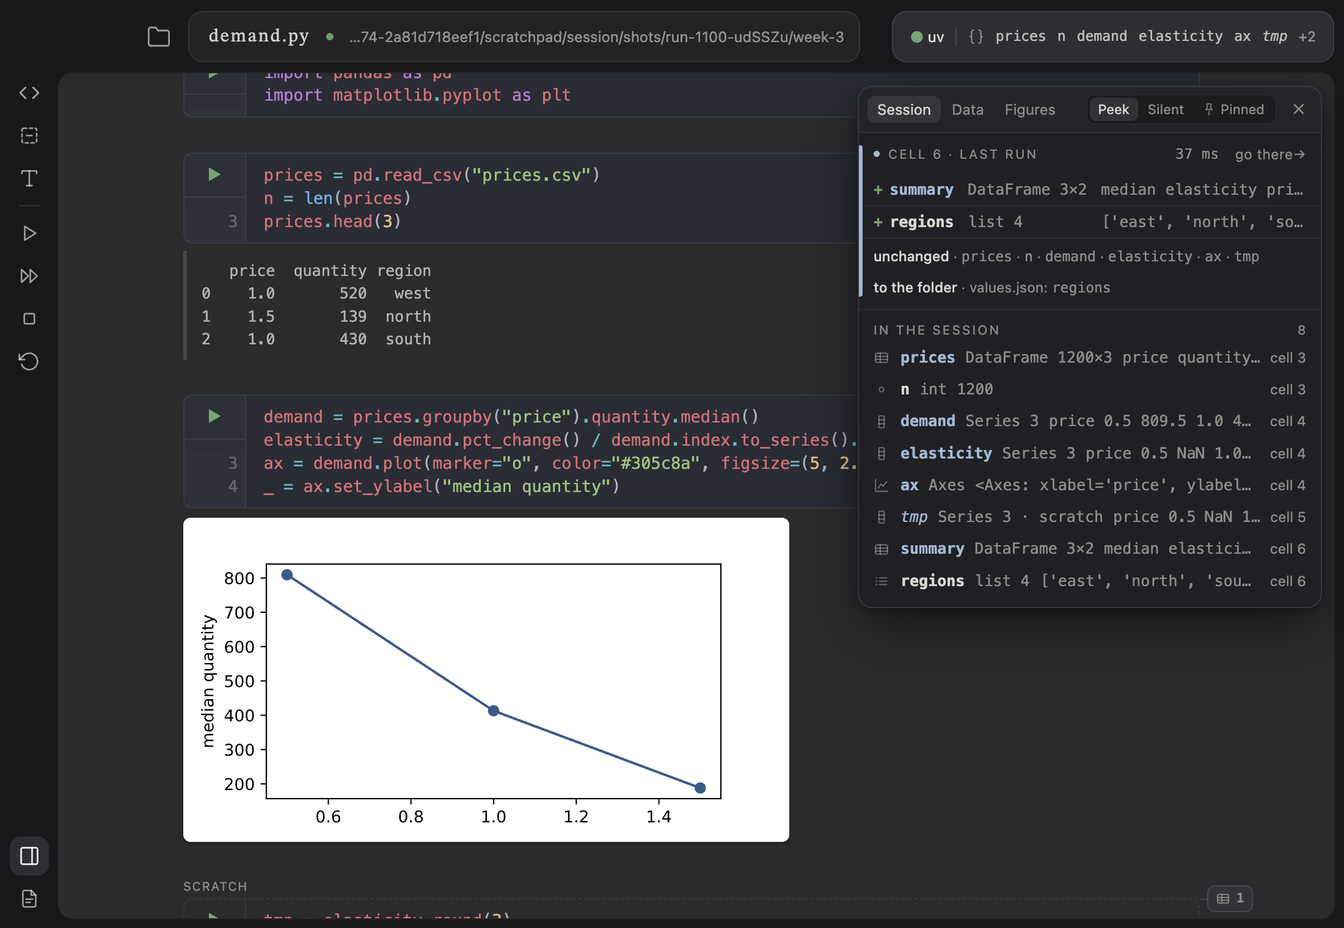
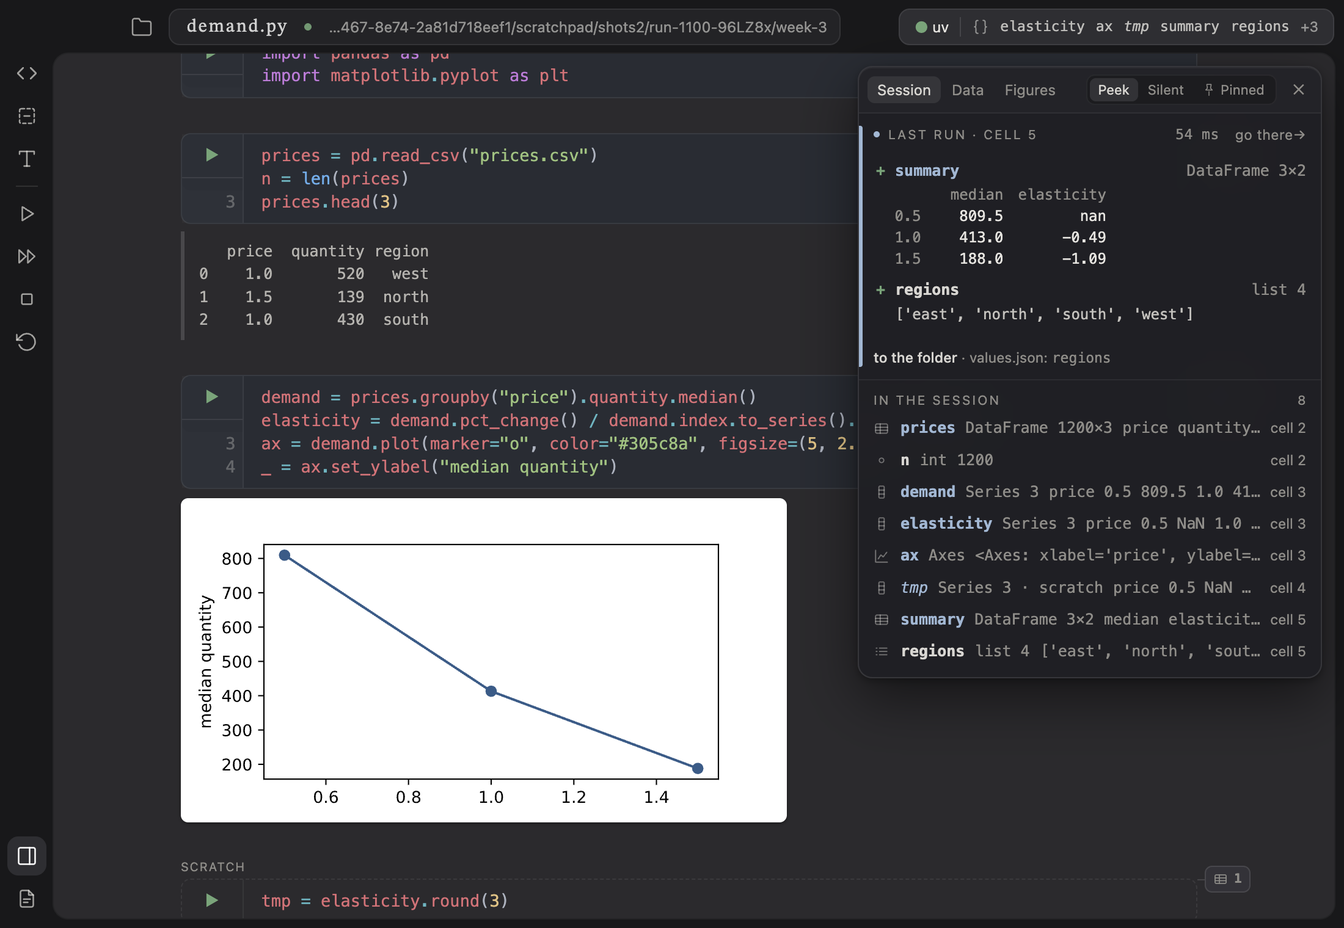
The session's record, second pass: what the reviewers found, the slide rule and the receipt beside the column, the merge, the checks, the eight screenshots again, what is open
SESSION.md says what the first pass got wrong at Taylor's window sizes
(Pinned a strip of names at 1470 and over the column under 1435, the
receipt likewise, the pill hiding the names a receipt brought home) and
what was decided and built: the column sliding for the docked card by
peek-v2's rule and narrowing to a 640 px floor, the room scrolling
sideways under that; the band with values, mini tables and the figure;
a chip's receipt in the band while docked; the receipt following the
margin and sliding the column for its stay; click to keep and the hint
that follows the focus; the pill's order and its single layout; the
resting pill in source and grid views; cell numbers for code cells. The
body, the defaults and the open list are brought up to date (the
thresholds as measured: 1275, 1085, 1075 px), the eight screenshots are
taken again on the checkout shell after the merge with main's 44 px bar,
and ROADMAP's entry no longer says the column never moves.

diff --git a/docs/SESSION.md b/docs/SESSION.md
@@ -32,8 +32,10 @@ open on the side."
 ## What was built
 
 One data structure, the **receipt** (`src/receipts.ts`), under three
-surfaces (`src/session.ts`). The cell column is untouched: every surface
-lies over the room and none of them moves or narrows the column.
+surfaces (`src/session.ts`). Every surface stands beside the cell column
+and never over it: the receipt card in the room's margin, the docked
+Session card past the chips' lane; the column slides left for either
+(*Second pass*, below, has the rule).
 
 **The receipt.** Every run of a cell produces one: the cell, the time
 the run took, the names it bound (`+` new, `~` rebound or changed in
@@ -47,23 +49,30 @@ the snapshot after the run, which adds what the AST could not see — a
 name bound inside an `if`, a frame changed in place (`prices['q'] = …`).
 
 **The receipt card** (Peek mode). After a run, the card appears beside
-the cell: right of the column, past the chips' lane, its top on the
-cell's first line, in the frame's dark glass. It stays while you look —
+the cell: right of the column, over the chips' lane (its own chip is
+hidden while it is up), its top on the cell's first line, in the frame's
+dark glass. Its width follows the room's margin, up to 300 px; a margin
+under 200 px slides the column left by the difference for the card's
+stay. It stays while you look —
 the pointer on it holds it — and goes home into the session pill when
 you keep typing, press Esc, click elsewhere, start another run, or
 after six seconds. Going home is the flight: the card lifts and swings
 along a curve into the pill, shrinking; the pill's names update as it
 lands, the new ones blue and lit for a moment, and the chip takes its
-place at the cell. `p`, when the keystroke would not type into a cell
+place at the cell, and the column, if it slid, slides back. A click
+anywhere on the card, `p` when the keystroke would not type into a cell
 (after clicking ▶), or the card's pin keeps it in place until it is
-closed (✕ or Esc). A Run all or Run stale never puts up a card.
+closed (✕ or Esc); its hint says which works now ("type or esc ↗ · click
+to keep" in a cell, "· p keeps it" elsewhere). A Run all or Run stale
+never puts up a card.
 
 **The chip.** Once a receipt has flown, a small chip stays at the cell's
 right corner, in the lane beside the column (ledger-v2's folded tab,
 tied to the column by a hairline): a glyph for what the run made — the
 white print for a figure, a table, braces for names — and how many names
-it bound. Hover opens the receipt card again, read-only, as it was; a
-click keeps it; a click elsewhere or Esc puts it away. The chip changes
+it bound. Hover opens the receipt card again, read-only, as it was,
+past the chip; a click keeps it; a click elsewhere or Esc puts it away.
+Docked, the chip's receipt shows in the Session card's band instead. The chip changes
 when its cell runs again, turns amber with the cell's staleness, and
 fades after a restart until its cell runs. A cell whose last run bound
 and drew nothing has no chip. When the lane is too narrow for it (a
@@ -73,15 +82,19 @@ window under about 990 px) it tucks inside the cell's top-right corner.
 (`#kernel-status`, its words unchanged, which the shell's smoke reads),
 a hairline, the session's mark, and its names in cell order — new names
 blue — or "empty session" / "fresh session" in words. When the names do
-not fit, the oldest give way to "+N" before the new ones. A click drops
-the Session card; while the kernel is not ready, it opens the onboarding
-as the status did.
+not fit, the least recently bound give way to "+N", and never the names
+a receipt is bringing home or the last run bound. A click drops the
+Session card; while the kernel is not ready, it opens the onboarding as
+the status did. In source and grid views it rests, its title saying
+why (there are no cells for the card to stand beside).
 
 **The Session card.** From the pill, a rounded dark-glass card at the
-room's top right, with three tabs: **Session** (the last run's receipt
-on top behind a blue rule, then every name with its kind glyph, type,
-preview and the cell that bound it; a table's or figure's name opens it,
-"cell 4" goes to the cell), **Data** (a chip per table, and the table
+room's top right, with three tabs: **Session** (the band: the last
+run's receipt on top behind a blue rule, "Last run · cell 3", each name
+with its kind and its value under it — a table of six rows or fewer
+whole, the figure at the card's width; then every name with its kind
+glyph, type, preview and the cell that bound it; a table's or figure's
+name opens it, "cell 4" goes to the cell), **Data** (a chip per table, and the table
 viewer, paging 100 rows at a time as the panel did), **Figures** (a chip
 per figure, and the figure viewer; it follows each new figure unless
 held, and a held one shows "New: …" for the one waiting). A click
@@ -95,9 +108,12 @@ Session tile (`#toggle-panel`, lit while the card shows).
   change quietly.
 - **Pinned**: the card docks beside the column, on the page, in its own
   look (not the code cells'), as a sidebar card that scrolls inside
-  itself. A run's receipt goes straight into its top, lit for a moment;
-  no card beside the cell; the chip still appears. Choosing Peek or
-  Silent unpins it back to floating; closing it unpins it.
+  itself; the column slides left by only what the card lacks (narrowing
+  under about 1275 px). A run's receipt goes straight into its band,
+  lit for a moment; no card beside the cell; the chip still appears, and
+  its hover or click shows its cell's receipt in the band ("Earlier run ·
+  cell 2"). Choosing Peek or Silent unpins it back to floating; closing
+  it unpins it.
 
 Peek or Silent is remembered (localStorage `knuth-receipts`); Pinned is
 remembered per window (sessionStorage `knuth-session-pinned`, with the
@@ -129,99 +145,171 @@ the receipt away.
 | | default | why |
 |---|---|---|
 | the receipt card's dwell | **6 s**; the pointer on it holds it, 2 s after it leaves | Taylor's "about six seconds"; long enough to read four lines, short enough not to be furniture |
-| the flight | **460 ms**, a quadratic curve that lifts first and swings across into the pill, shrinking to the names' box; the names land at 72 % | peek-v2's 380 ms read as a blink on a real window; the curve is the "sends it up" Taylor liked |
+| the flight | **460 ms**, a quadratic curve that lifts first and swings across into the pill, shrinking to the names' box, above the bar; opaque until it is seven eighths of the way, the names lighting then (at 60 % of the time) while it still shows, gone only as it settles into them | peek-v2's 380 ms read as a blink on a real window; the curve is the "sends it up" Taylor liked; the first pass faded it before it reached the pill |
 | what puts the card away | typing (a printable key, Enter, Backspace, Delete, Tab), Esc, a click elsewhere, another run, the dwell | peek-v2's "carrying on is the acknowledgement" |
-| `p` | keeps the card only when the keystroke would not type (focus off the text) | a plain `p` in a cell must stay a `p`; Esc then P was weighed and left out, since Esc also closes the completion popup and the next `p` would be swallowed |
+| keeping a run's card | a click anywhere on it (but its pin, ✕, a table or the figure, which act on their own); `p` only when the keystroke would not type (focus off the text); the hint names what works now | after ⌘↩ the cursor stays in the cell, where a `p` must stay a `p`; Esc then P was weighed and left out, since Esc also closes the completion popup and the next `p` would be swallowed |
 | when a run gets a card | a single, clean run that bound or drew something; a run whose news only the snapshot saw gets its card when the snapshot lands, unless you carried on meanwhile | a card saying "nothing" is motion for nothing |
 | the chip's glyphs | white print = drew a figure; table = bound a DataFrame, Series or 2-D array; braces = names; the count = names bound (or figures drawn, for a figure alone) | ledger-v2's tab, with braces for plain names |
 | what the receipt lists from the folder | the bound values values.json mirrors (`saved` from the kernel) and the run's `figs/<name>.svg` receipts; "no folder yet" when the document has no folder | both are what the page already writes; a scratch run lists none |
 | new names in the pill | blue until the next single run, or until the Session tab is opened; a batch's add up | round two's rule: opening the Session acknowledges, hovering does not |
-| the card beside the cell | 220–300 px wide past a 46 px chips' lane; previews drop under 270 px | the lane at 1500 px is 310 px |
-| the docked card | 220–380 px wide past the chips' lane, the room's height less 24 px | the column keeps its width at every size |
+| the card beside the cell | a run's 6 px from the column (over the chips' lane), a chip's past its chip; as wide as the margin up to 300 px, 8 px in from the room's edge; slim under 270 px (a short value — a number, a string of 16 characters or fewer — in place of its kind, the kind in the tooltip); a margin under 200 slides the column left by the difference, and the card then takes down to 160 | about 280 px with previews at 1470–1500; 186 px slim at 1100 with the column all the way left |
+| the docked card | clamp(320, what is beside the column, 380) wide past the chips' lane, 10 px in from the room's right edge, the room's height less 24 px; inside the room | peek-v2's board |
+| the column, docked | margin-left max(0, min(centred, room − column − need)), need = the card, the lane and its gap less the room's own 24 px margin; narrows under about 1275 px to a 640 px floor; under about 1085 px the room's floor rises and it scrolls sideways | peek-v2's rule, and Taylor's "right beside the cells … just on the page" |
+| the slide | 0.36 s, cubic-bezier(.2,.7,.2,1), on the pin and for a receipt's stay (the card riding beside the column on the same curve); never on a resize, never on a run | peek-v2's timing |
+| cell numbers | the code cells only, 1-based (cell zero, the preamble, is 0); text cells uncounted | no number is drawn on the page, so a student counts the cells that run |
 | the floating card | 380 px, 10 px in from the room's top right | the tabs, the three modes and ✕ on one line |
-| a narrow room | under about a 1435 px window the lane cannot hold a card: the receipt card (290 px) lies over the room's right edge, 12 px in, and the docked card likewise (320 px) | see *What is open*, 1 |
+| a narrow room | under about a 1075 px window the receipt card, 160 px, lies at the room's right edge over the column's (after sliding it all the way left); the docked card never does: the room scrolls sideways | see *What is open*, 1 |
 | a restart | the chips fade, the pill says "fresh session", the Session card empties | round two's default |
 | a deleted cell | its names stay, marked "deleted cell" | round one's default |
 | names bound before the page loaded (a resumed session) | in the pill and the Session tab, with no cell | round two's default |
 | the old `knuth-panel` key | ignored; the card starts closed | the panel was open by default, the card is not |
+
+## Second pass: the reviewers' findings
+
+Two reviewers drove the first pass on the checkout shell (uv and
+Pyodide, 900 to 1500 px). The flight, the chips and the floating card
+worked as Taylor asked; Pinned did not. At Taylor's 1440–1470 the docked
+card was a 230 px strip of names with no values, and under about 1435 px
+it lay over the column's right edge and every chip — at the app's
+default 1100 window too — "floating there all the time". The receipt
+card did the same under 1435, and at full width it said `n int` where
+the value was the point. The decisions taken on the findings, and what
+was built:
+
+1. **Pinned slides the column** (peek-v2's board rule). Docking gives
+   #sheet a margin-left of max(0, min(centred, room − column − need)),
+   need being the card's width, the chips' lane and its gap less the
+   room's own margin; the column slides left, its width unchanged, by
+   only what the card lacks, over 0.36 s, on the pin, and a run never
+   changes it. The card is clamp(320, free, 380) wide. Under about
+   1275 px the column narrows while docked, to a 640 px floor (656 at
+   1100); under what the floor allows (about 1085 px) the room's floor
+   rises and the room scrolls sideways, the card past the column's edge,
+   never over its text. The docked card is inside the room, so it goes
+   sideways with the column. This replaces "the column untouched" for
+   the docked card only; unpinned, nothing moves. Taylor's words:
+   "putting it right beside the cells like you have it in one of the
+   other demos i saw, just on the page".
+2. **The band keeps the values.** Each name on its line with its kind
+   at the right and its value under it: the preview on one line, a table
+   of six rows and columns or fewer whole as a mini table (asked of the
+   kernel once per receipt, and only while the name still holds that
+   run's value), the figure at the card's width.
+3. **A chip while docked** lights its cell's receipt in the band,
+   "Earlier run · cell 2" behind a grey rule, scrolled into view — no
+   card over the docked one. A hover from the Data or Figures tab goes
+   back there when it ends; a click keeps the band until Esc, a click
+   elsewhere or the next run.
+4. **The receipt card never covers the column.** A run's card stands
+   6 px from it, over the chips' lane; a chip's past its chip. Its width
+   follows the margin up to 300; under 200 the column slides left by the
+   difference for the card's stay — the same margin rule, animated, the
+   card riding beside the column on the same curve — and slides back once
+   the flying card has lifted clear. With the column all the way left,
+   the card takes what there is down to 160 (186 at 1100). A slim card
+   shows a short value in place of its kind.
+5. **Keeping it.** A click anywhere on a fresh card keeps it (the cursor
+   stays in the cell); the hint says "type or esc ↗ · click to keep"
+   while a text entry has the focus and "· p keeps it" only where p
+   would keep it, on one line.
+6. **The pill** hides the least recently bound names first (a running
+   count of bindings), never the names a receipt is bringing home or the
+   last run bound; the first pass hid from the bottom of the document,
+   which is the cell being worked on. It is laid out once per paint —
+   every width read in one pass, the hiding worked out in script and
+   written at the end — where the first pass reflowed once per hidden
+   name (518 ms for 1500 names on the reviewer's machine); with 1,505
+   names a run and its flight now leave no task over 50 ms. In source
+   and grid views the pill rests (aria-disabled, its title saying why),
+   and the card cannot be opened where it cannot be seen.
+7. **Cell numbers** count the code cells only; the receipt says "Cell 3"
+   for the third cell that runs, the text cells between uncounted.
+8. **The flight** stays opaque until it is nearly in the pill, flies
+   above the bar, and the names light while it still shows.
+9. **Merged with main**: the 44 px bar, 30 px pills and 32 px tiles; the
+   session pill takes main's numbers (30 px, 12 px in, 9 px corners) and
+   the frame spec measures it at 30. The committed web is rebuilt from
+   both.
 
 ## The record
 
 The screenshots are the checkout shell (`app/knuth.json` on
 `~/Projects/claerbout`) on uv, through Playwright's `_electron`, with
 `docs/mockups`' demand example as a document (pandas and matplotlib from
-its header) in a scratch folder, so the name pill's folder line is that
-folder. The page is laid out at 1500 × 940 and 1100 × 760 at 2× by device
-metrics emulation, since this screen is 1470 points wide; they are page
-captures, so the traffic lights are not in them.
+its header, a text cell, then five code cells) in a scratch folder, so
+the name pill's folder line is that folder. The page is laid out at
+1500 × 940 and 1100 × 760 at 2× by device metrics emulation, since this
+screen is 1470 points wide; they are page captures, so the traffic lights
+are not in them. Taken after the merge with main (the 44 px bar).
 
 - `docs/session-receipt-1500.png`, `-1100.png`: the receipt beside the
-  run cell (cell 4: three new names, the figure, figs/ax.svg to the
-  folder); at 1100 it lies over the room's right edge.
+  run cell (cell 3: three new names, the figure, figs/ax.svg to the
+  folder). At 1500 it is 300 px with previews and the column has not
+  moved; at 1100 it is slim (186 px) and the column has slid all the
+  way left for it.
 - `docs/session-chips-1500.png`, `-1100.png`: the chips at rest after
-  Run stale; at 1100 the pill's oldest names give way to "+2".
+  Run stale; at 1100 the pill's least recently bound names give way to
+  "+3" and the last run's stay.
 - `docs/session-floating-1500.png`, `-1100.png`: the Session card from
-  the pill.
-- `docs/session-pinned-1500.png`, `-1100.png`: docked; at 1500 beside the
-  column past the chips, at 1100 over the room's right edge.
+  the pill, over the room, the column centred; its band shows the last
+  run's DataFrame whole and its list.
+- `docs/session-pinned-1500.png`, `-1100.png`: docked. At 1500 the card
+  is 380 px and the column has slid left with its width; at 1100 the card
+  is 320 px (the modes as one line, Pinned as its pin) and the column has
+  narrowed to 656 px beside it, the chips between.
 
 ## Checks
 
-- `npm test`: green (with `src/receipts.test.ts`, the receipt's rules,
-  and the protocol test for `bound`).
-- `npm run build:engine`, `npm run check:web`: green.
-- `npm run test:browser`: 84 passed. `tests/browser/session.spec.ts`
-  (16) drives a mock engine that answers runs with `bound` names and a
-  figure: the card beside the cell and its flight into the pill on Esc
-  and on typing, the dwell and the pointer holding it, `p`, the chip's
-  glyph, count, hover, click and Esc, amber and the restart's fade, the
-  Session card from the pill closing on an outside click and Esc, the pin
-  docking it with the column's width unchanged and a reload keeping it,
-  Silent and Pinned, Run all, a table paging in the Data tab and a figure
-  in the Figures tab, a change in place, Esc still arming the kind chord,
-  `p` typed in a cell, and the narrow room. The app, protocol and frame
-  specs open the card from the pill where they clicked the panel, and the
-  frame spec's floor is main's 640 px whether the card is docked or not.
+On `ux/session` after the merge with main:
+
+- `npm test`: green.
+- `npm run build:engine`, `npm run check:web`: green; the committed app
+  matches its sources.
+- `npm run test:browser`: 92 passed. `tests/browser/session.spec.ts`
+  (24) adds to the first pass's: the slide rule at 1470, 1300 and 1100
+  (the card's width, beside the column past the lane, the column whole
+  or narrowed to its floor, slid all or part of the way, back on
+  unpinning) and the room scrolling sideways under the floor at 1000;
+  the slide's 0.36 s; a run not moving the column; the receipt beside
+  the column at 1470, 1300 and 1100 with the column sliding for it and
+  coming back after the flight; the slim card's short values and its
+  one-line hint; click to keep; the pill's order; the docked band on a
+  chip's hover and click, and from the Data tab; its mini tables and
+  figure; the resting pill in source view. The frame spec's column and
+  floor tests say what docking does now.
 - The checkout-shell smoke, `node ~/Projects/claerbout/smoke.mjs --config
   app/knuth.json browser` and `uv`: ok, with the autosave record's
-  subjects. On Pyodide in the shell, a run's receipt lists `answer` and
-  `words` with values.json as their folder.
+  subjects (`knuth: cell run [1]`, `knuth: session open`).
 - The engine's tests from the worktree:
   `PYTHONPATH=python ~/Projects/knuth/.venv/bin/python -m pytest
-  python/tests -q`: 161 passed, two of them new (`bound` on the done
-  event, in order, kinds, previews, `saved`, scratch, none on a failed
-  run; and its cap). The venv's editable install points at the main
-  checkout, so the PYTHONPATH is what puts the worktree's engine first
-  (`../.venv` does not exist from the worktree).
+  python/tests -q`: 161 passed (the engine is unchanged in this pass).
 
 ## What is open
 
-1. **A narrow room.** The brief said the card "overlaps the room's right
-   edge, never the column". At 1100 px the lane beside the column is
-   110 px, and the card is 290, so it cannot be beside the column without
-   leaving the window. It now lies over the room's right edge, 12 px in,
-   which lays it over the column's last ~180 px (where code lines rarely
-   reach, peek-v2's argument). The other way is a lane-wide strip — the
-   names alone, about 90 px — which never touches the column but says
-   much less. The docked card does the same, which at 1100 covers the
-   chips under it (its own top holds the last receipt).
-2. **No keyboard pin from inside a cell** (`p` there is a `p`). If one is
-   wanted: a chord nothing else uses, or Esc then P with the completion
-   popup's Esc excepted.
-3. **The receipt card is slim at 1500** (no previews): the lane there is
-   310 px, less the chips' lane. Dropping the chips' lane while a card is
-   up would give 290 px and the previews.
+1. **The receipt under about 1075 px.** With the column slid all the way
+   left there is less than 160 px beside it, and the card (160 px) lies
+   at the room's right edge over the column's last part, for its stay.
+   The way out is narrowing the column for the card, which rewraps the
+   code twice in six seconds; left for Taylor's call.
+2. **The column's see-saw on a narrow window.** Under about 1305 px a
+   run's card slides the column left and the next keystroke slides it
+   back (at 1100, 88 px each way); running cells one after another moves
+   it every run. That is the rule as decided (the receipt's stay only);
+   keeping the slide while cards follow one another is the alternative.
+3. **Docked under about 1085 px** the room scrolls sideways to reach the
+   card (the floor rises with it), where the first pass let the card lie
+   over the column.
 4. **Chips do not survive the document reloading from disk** (an outside
-   edit, `knuth run`): every Cell is new, so the receipts are dropped; the
-   names stay in the pill, unowned, until their cells run.
-5. **Round two's other parts are not built**: the ledger's margin cards,
+   edit, `knuth run`): every Cell is new, so the receipts are dropped;
+   the names stay in the pill, unowned, until their cells run.
+5. **The autosave subject counts every cell** (`knuth: cell run [4]` is
+   the fourth cell, text cells included), where the receipt now counts
+   code cells; the shell's record was left as it is.
+6. **Round two's other parts are not built**: the ledger's margin cards,
    the clamp on dense notebooks, the lean of a wide table, the large
    viewer, the first-run note, a pill name that goes to its cell, Esc-P
    for the Session.
-6. **The Session card's header** wraps the modes under the tabs when it
-   is docked narrow (under 300 px). One line would need the modes as
-   glyphs.
 7. **A function's preview** carries its address, so a re-run that
    redefines it always reads as rebound — true, if noisy.
-8. `undefined/knuth-pm.png` is committed at the repository's root; it
-   predates this branch and is untouched.
+8. **The band's mini tables are asked of the kernel** once per receipt
+   for each small table: one more message per small table per run.

diff --git a/docs/ROADMAP.md b/docs/ROADMAP.md
@@ -45,11 +45,17 @@ question that still needs one.
   carry on; a chip at the cell's corner that reopens it on hover; and the
   Session card from the pill (Session, Data, Figures), floating, or docked
   beside the column by its pin. Modes Peek, Silent and Pinned in the
-  card's header. The column is never moved or narrowed. OPEN, per
-  SESSION.md: a narrow room (the card lies over the room's right edge,
-  and so over the column's last ~180 px at 1100), no keyboard pin from
-  inside a cell, the receipt's previews at 1500, chips lost when the
-  document reloads from disk, and round two's unbuilt parts.
+  card's header. Second pass the same day, on the reviewers' findings:
+  docking slides the column left by only what the card lacks (peek-v2's
+  rule; it narrows under about 1275 px, to a 640 px floor), the receipt
+  card follows the room's margin and slides the column for its stay, so
+  neither lies over the column, a click keeps a receipt, a chip's
+  receipt shows in the docked card's band, and main's 44 px bar is
+  merged. OPEN, per SESSION.md: the receipt under about 1075 px (over
+  the column's edge), the column's see-saw when cells run one after
+  another on a narrow window, the room scrolling sideways when docked
+  under about 1085 px, chips lost when the document reloads from disk,
+  and round two's unbuilt parts.
 
 - **Autosave: a git track of every edit** — PLANNED 2026-09-27, spec in
   AUTOSAVE.md (Claerbout-wide, Plass and Knuth alike). Every project
